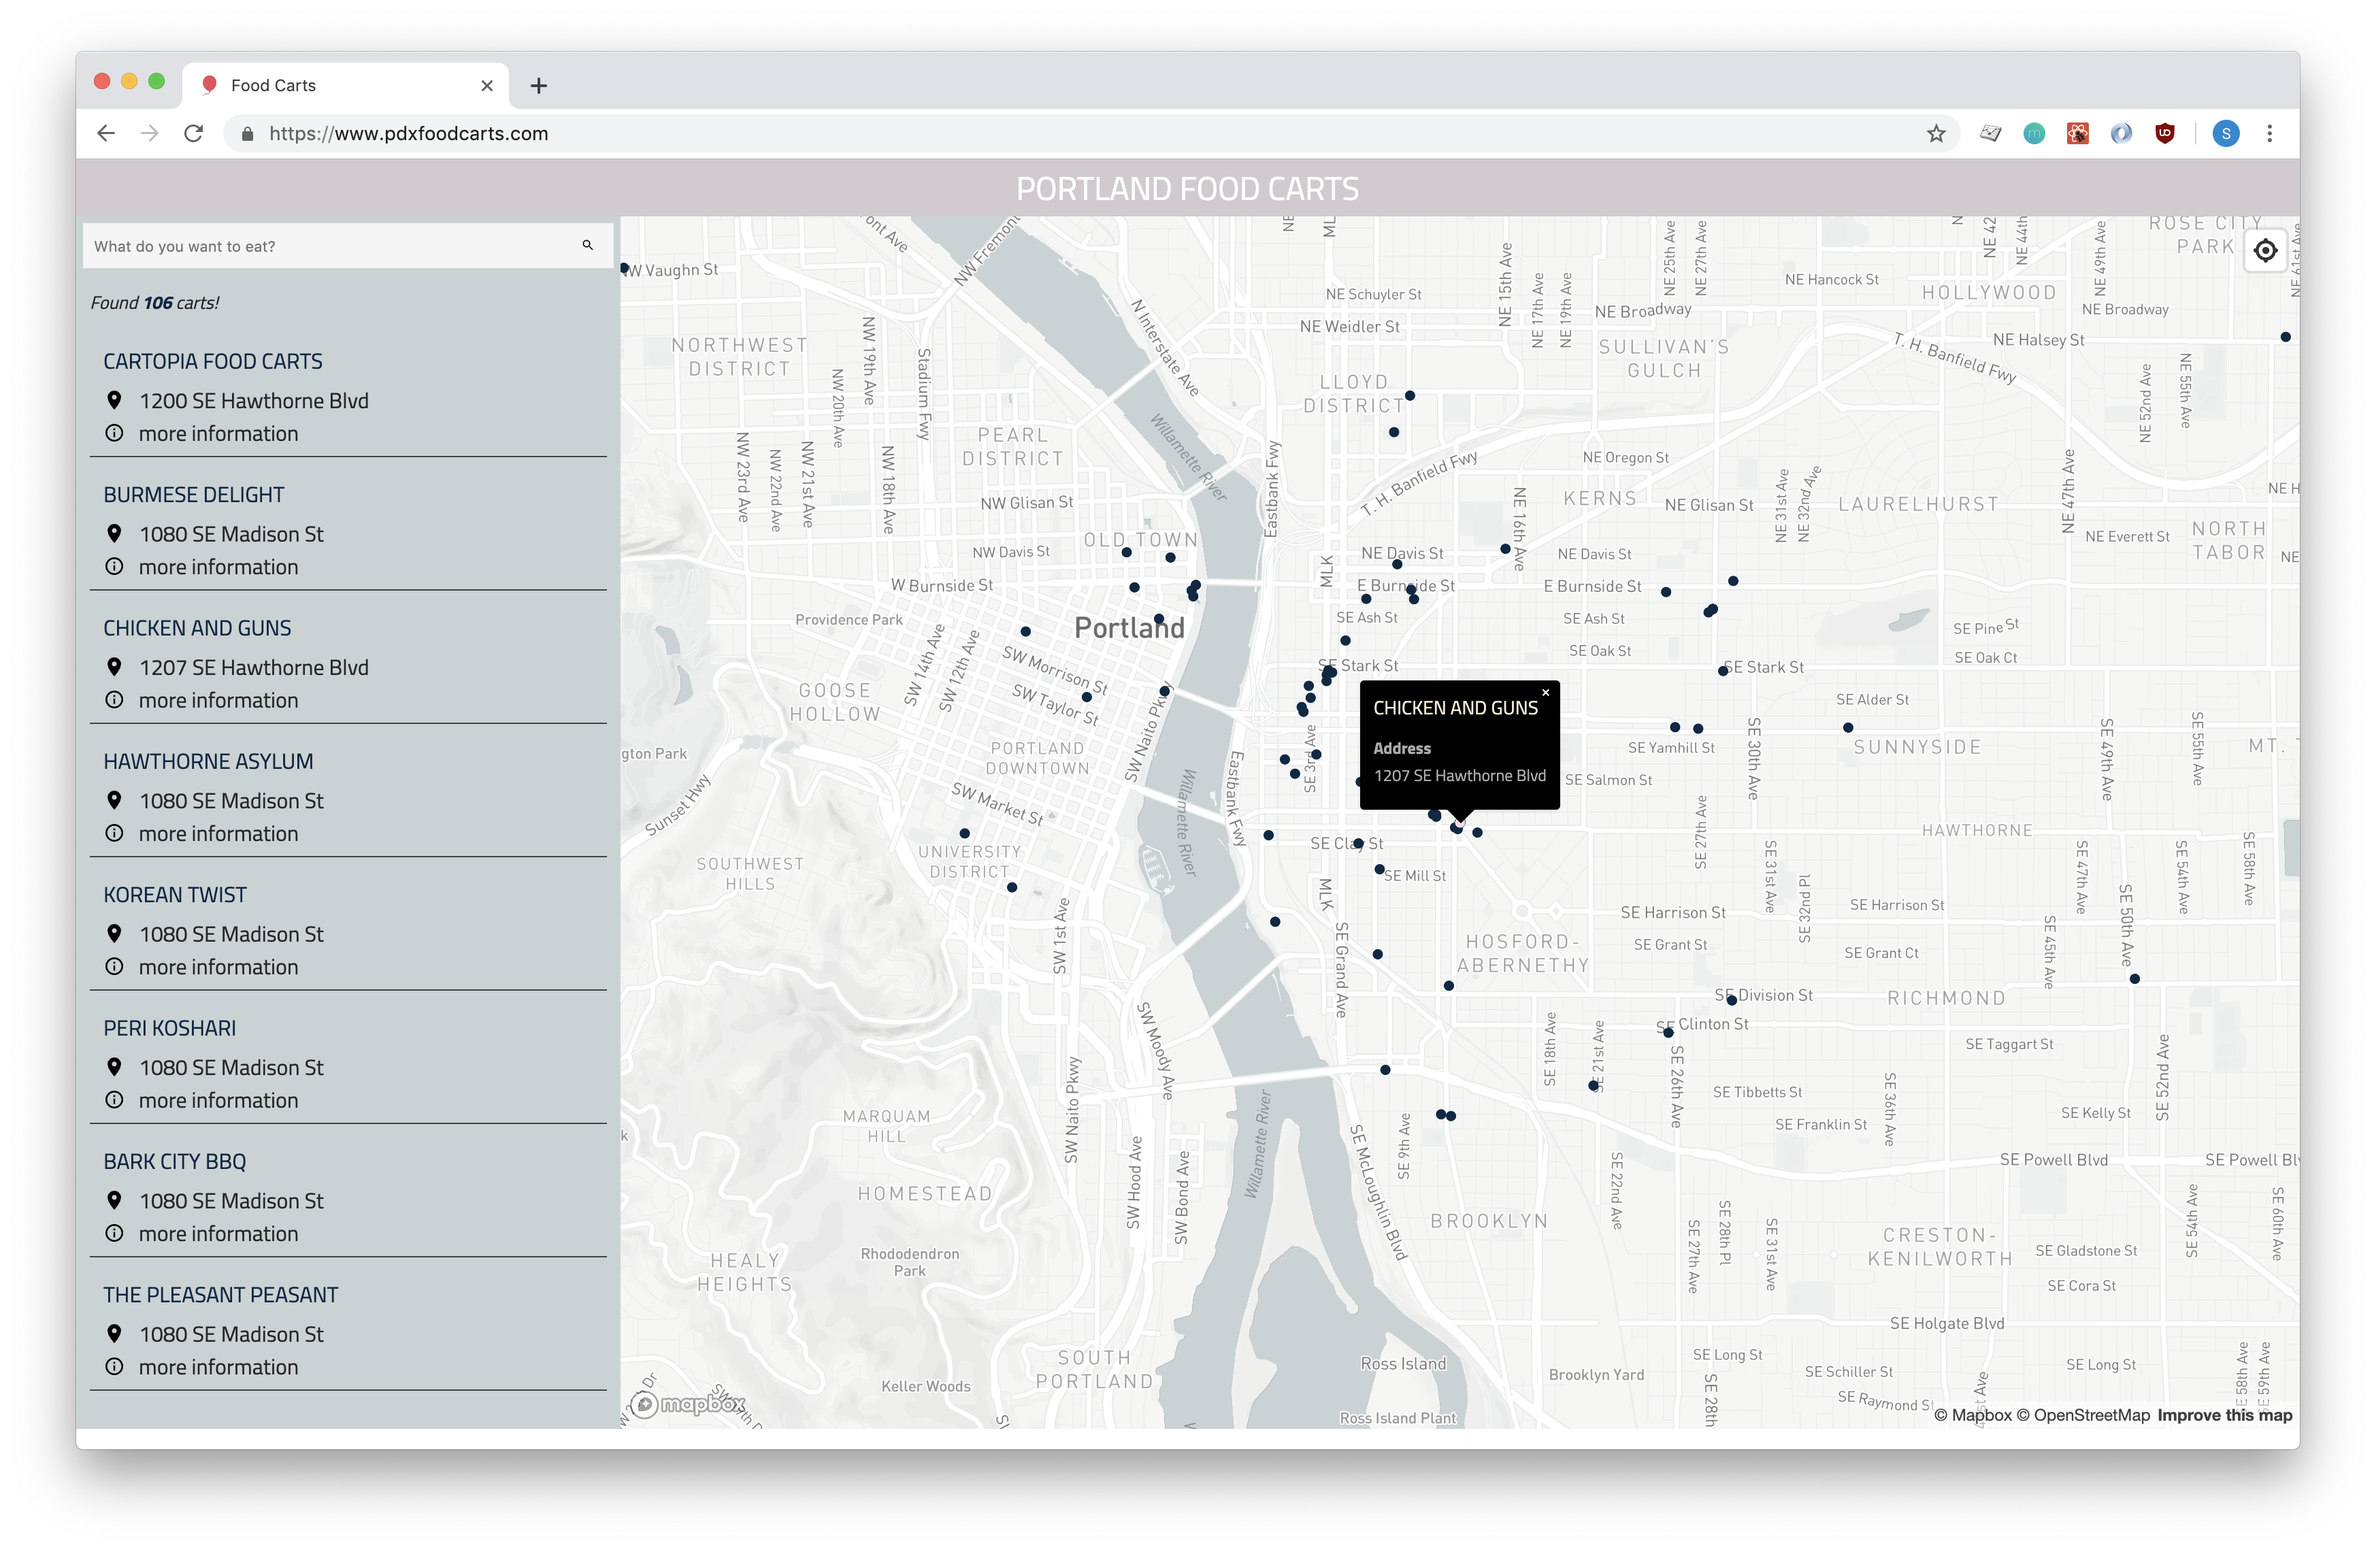
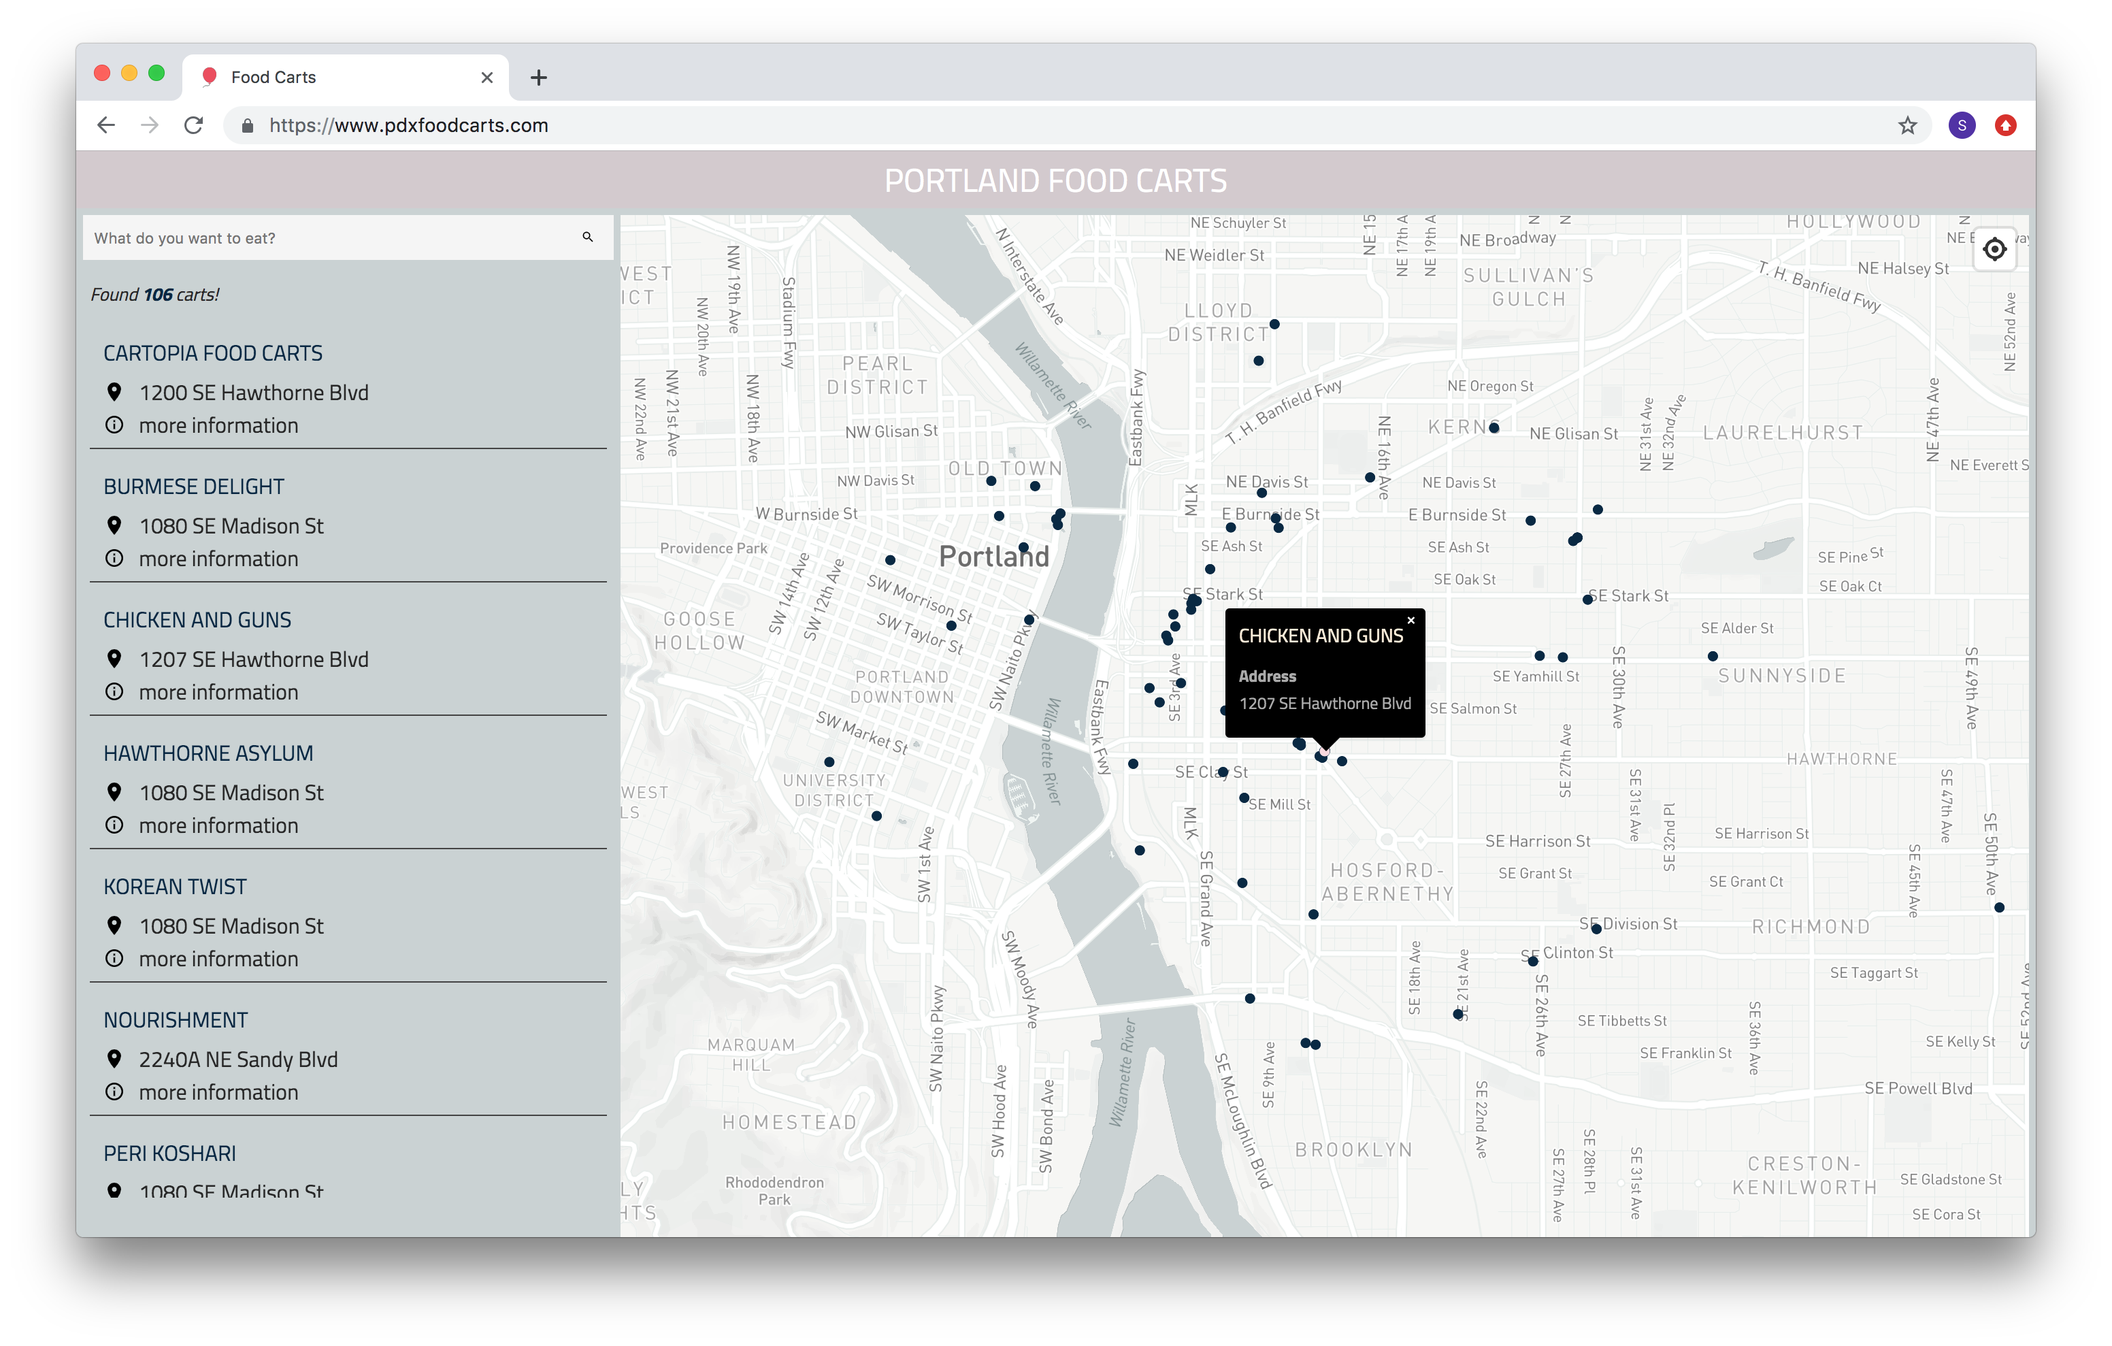
updating readme :eyes:

diff --git a/frontend/static/style/main.css b/frontend/static/style/main.css
@@ -26,12 +26,12 @@ a {
 }
 
 .container {
-  height: 94vh;
+  height: 100vh;
   display: flex;
 }
 
 #sidebar {
-  background-color: #CAD2D3;
+  background-color: #cad2d3;
   width: 400px;
   height: 100%;
 }
@@ -43,7 +43,7 @@ a {
 #search-area {
   display: flex;
   flex-direction: row;
-  border: 5px solid #CAD2D3;
+  border: 5px solid #cad2d3;
 }
 
 #search-area input,
@@ -80,7 +80,7 @@ a {
 
 #results-area {
   padding: 10px;
-  height: 88%;
+  height: 80%;
 }
 
 #results-area h5 {
@@ -146,17 +146,15 @@ img {
   color: #282828;
 }
 
-.content {
+#content {
   flex: 1;
-}
-
-.topbar {
-  height: 5%;
-  display: none;
+  border-top: 5px solid #cad2d3;
+  border-right: 5px solid #cad2d3;
+  border-bottom: 5px solid #cad2d3;
 }
 
 #map {
-  background-color: tan;
+  background-color: #cad2d3;
   height: 100%;
 }
 
@@ -209,7 +207,9 @@ input.mobile-search {
   .container {
     flex-direction: column
   }
-
+  #content {
+    border: none;
+  }
   #sidebar {
     width: 100%;
     height: auto;

diff --git a/frontend/static/index.html b/frontend/static/index.html
@@ -13,7 +13,7 @@
     <div class="header">portland food carts</div>
     <div class="container">
         <div id="sidebar"></div>
-        <div class="content">
+        <div id="content">
             <div id="map"></div>
         </div>
     </div>

diff --git a/README.md b/README.md
@@ -1,6 +1,10 @@
 # portland food carts
-an interactive map of food carts in the portland oregon area - check it out [here](https://www.pdxfoodcarts.com)
+🍔 An interactive map of food carts in the Portland, Oregon area.  
 
-![](https://github.com/spikemadden/food-carts/blob/master/screenshots/all.png)
+https://www.pdxfoodcarts.com
+
 ![](https://github.com/spikemadden/food-carts/blob/master/screenshots/search.png)
-![](https://media.giphy.com/media/iiKKkSGjQ1XibSzjvl/giphy.gif)
+
+This application is serverless with the help of [Amazon Web Services](https://aws.amazon.com). Food cart data is collected using the [Yelp Fusion](https://www.yelp.com/fusion) API and runs as a [Lambda](https://aws.amazon.com/lambda) every 24 hours. The backend API to support search is an [Express](https://expressjs.com) app wrapped using [Serverless](https://serverless.com) and deployed as a Lambda. The frontend is written in [React](https://reactjs.org), built with [webpack](https://webpack.js.org) and deployed to [S3](https://aws.amazon.com/s3) with a [CloudFront](https://aws.amazon.com/cloudfront) distribution sitting on top.
+
+If you have any questions, feel free to reach out! 👋🏼
